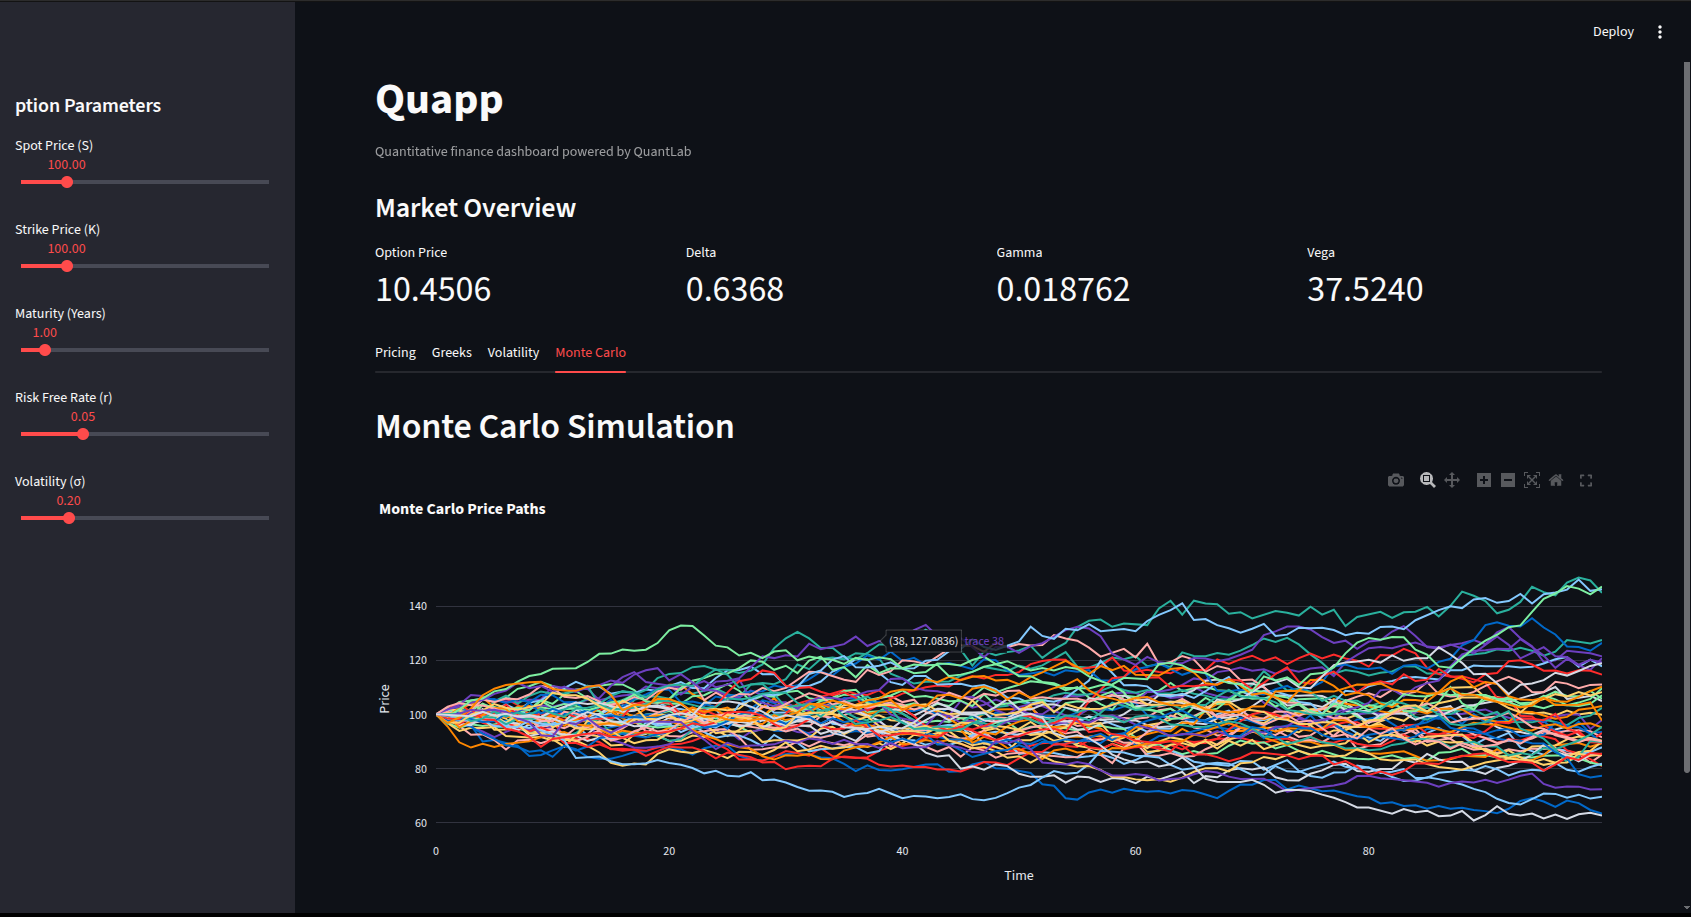
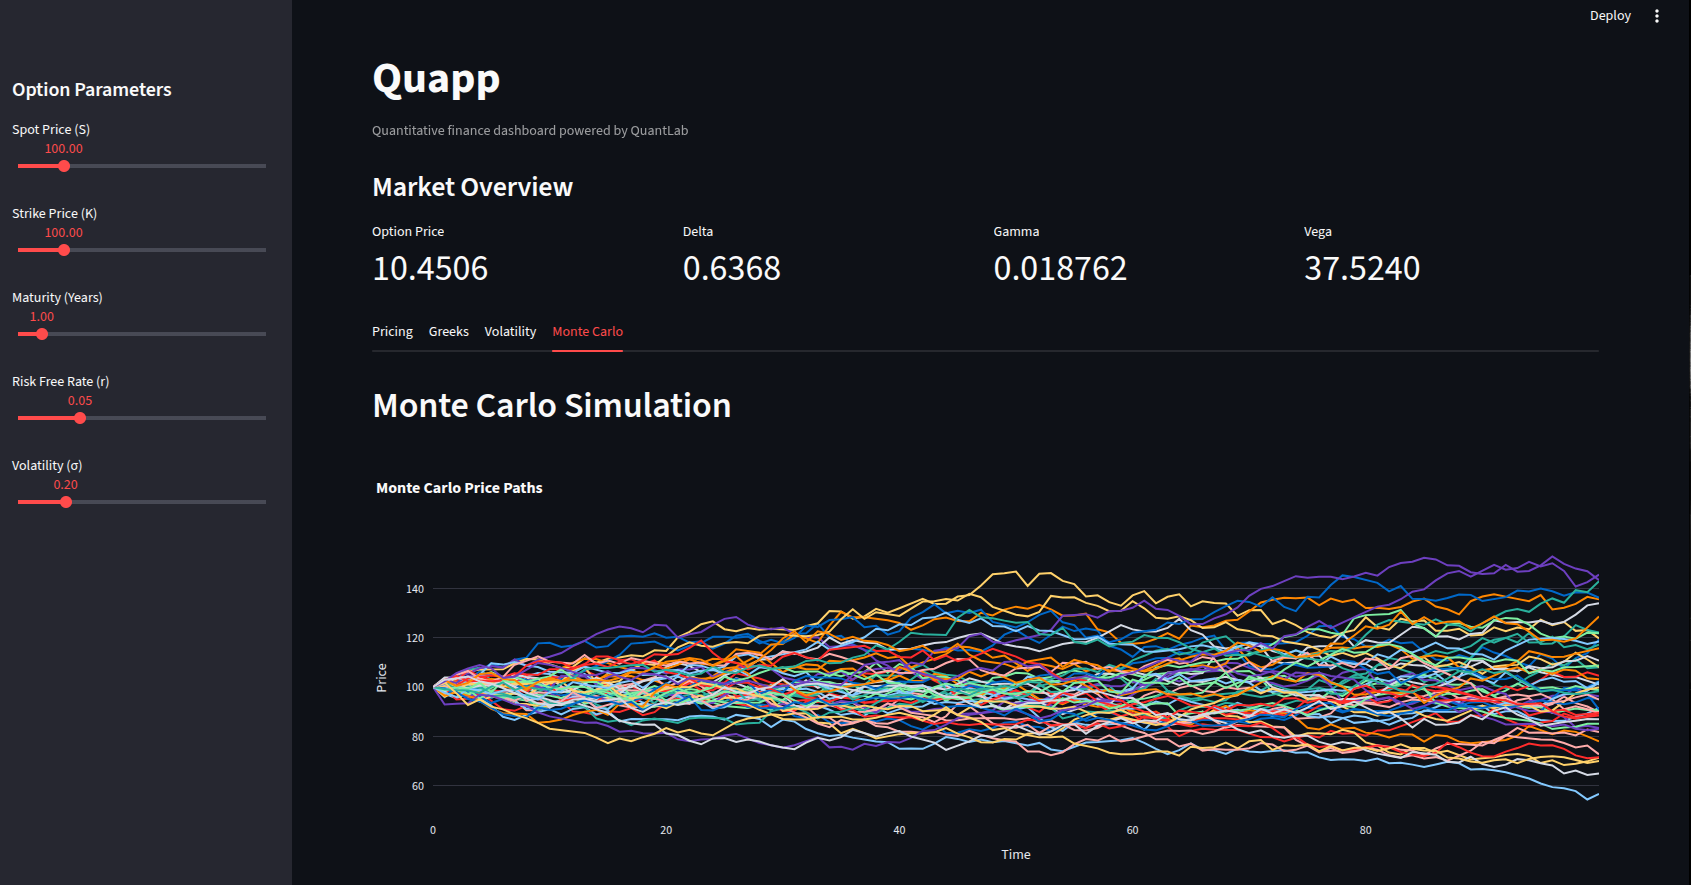
Refresh

diff --git a/app.py b/app.py
@@ -54,7 +54,7 @@ st.caption(
 # Sidebar Controls
 # -----------------------
 
-st.sidebar.header("ption Parameters")
+st.sidebar.header("Option Parameters")
 
 
 spot = st.sidebar.slider(